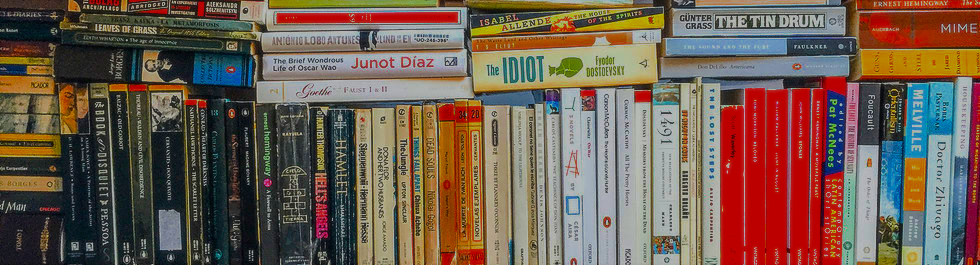
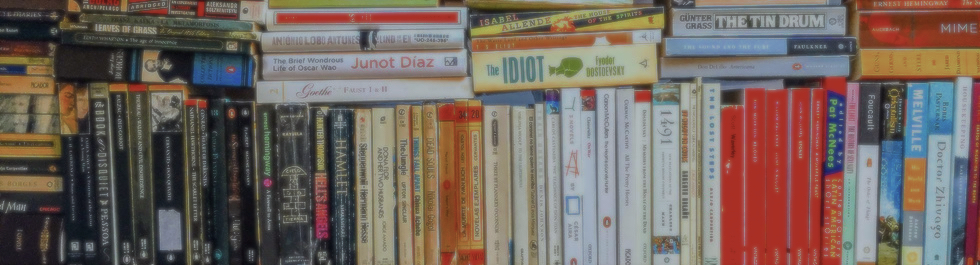
new notebook photo, minor style tweaks

diff --git a/index.html b/index.html
@@ -5,6 +5,14 @@
 		<title>The Casual Academic</title>
 		<meta name="description" content="We are here to laugh at the odds and live our lives so well that Death will tremble to take us.">
 		<meta name="Keywords" content="the casual academic, literature, books, podcast, literary articles, literary reviews, novels, vocabulary"/>
+
+		<!-- You can use Open Graph tags to customize link previews. Learn more: https://developers.facebook.com/docs/sharing/webmasters -->
+		<meta property="og:url"           content="http://www.thecasualacademic.com" />
+		<meta property="og:type"          content="website" />
+		<meta property="og:title"         content="The Casual Academic" />
+		<meta property="og:description"   content="A website about books and shit" />
+		<meta property="og:image"         content="http://www.thecasualacademic.com/bookcover1.png" />
+
 		<meta http-equiv="Content-Type" content="text/html; charset=UTF-8">
 		<link href="https://fonts.googleapis.com/css?family=Josefin+Slab:400,700|Lora" rel="stylesheet">
 		<link rel="stylesheet" type="text/css" href="style.css">
@@ -17,6 +25,7 @@
 	<body ng-app="myApp" >
 		<div id="navbar">
 			<div id="navbar-left">
+				<div class="fb-like" data-href="http://www.thecasualacademic.com" data-layout="standard" data-action="like" data-show-faces="true"></div>
 				<a ng-href="#/">The Casual Academic</a>
 			</div>
 			<div id="navbar-icons">

diff --git a/app.js b/app.js
@@ -54,7 +54,7 @@ app.controller('homeCtrl', ['$scope', '$location', '$timeout', 'EntryService', f
             if (a.created_at_date < b.created_at_date) return -1;
             if (a.created_at_date > b.created_at_date) return 1;
             return 0;
-        }).reverse().slice(0, 5);
+        }).reverse();
         $scope.book = $scope.data[0];
     });
 
@@ -77,7 +77,7 @@ app.controller('episodesCtrl', ['$scope', '$sce', '$http', 'EntryService', funct
         $scope.episodes = entries;
         $http.get('./data/asides.json').then(function (asides) {
             asides = asides.data.map(function (item) {
-                item['cover_image'] = 'bookcover1.png';
+                item['cover_image'] = 'havana_notebook.png';
                 item['created_at_date'] = new Date(item.created_at);
                 item['term'] = 'Aside';
                 item['play_on_page'] = true;
@@ -131,6 +131,12 @@ app.controller('singleEpisodeCtrl', ['$scope', '$sce', '$routeParams', 'EntrySer
         $scope.further_reading = $sce.trustAsHtml(links);
         $scope.$apply();
     })
+
+}]);
+
+app.controller('reviewCtrl', ['$scope', function ($scope) {
+
+    window.scrollTo(0, 0);
 
 }]);
 

diff --git a/style.css b/style.css
@@ -16,7 +16,7 @@ body {
 }
 
 .red-hov:hover {
-	color: #a60000;;
+	color: red;
 }
 
 .center {
@@ -90,7 +90,7 @@ body {
 #banner {
 	width: 100%;
 	z-index: -1;
-	background-image: url('images/banner_copy.jpg');
+	background-image: url('images/banner.jpg');
 	font-family: 'Josefin Slab', serif;
 }
 
@@ -129,8 +129,8 @@ body {
 #bookshelf {
 	text-align: center;
 	vertical-align: bottom;
-	margin-top: 60px;
-	height: 360px;
+	margin-top: 80px;
+	height: 382px;
 	overflow-y: hidden;
 }
 
@@ -157,7 +157,9 @@ body {
 
 .book-option {
 	padding: 10px;
-	font-size: 24px;
+	margin-bottom: 5px;
+	font-size: 32px;
+	font-family: 'Josefin Slab';
 	letter-spacing: 1px;
 	cursor: pointer;
 	display: inline-block;
@@ -458,7 +460,8 @@ body {
 }
 
 .about-name {
-	background: rgba(149, 166, 255, 0.77);
+	background: rgb(53, 53, 53);
+	color: white;
 	padding: 10px;
 	font-size: 30px;
 	text-align: center;

diff --git a/reviews/a_primer_to_borges.html b/reviews/a_primer_to_borges.html
@@ -1,4 +1,4 @@
-<div id="page-review" class="page" scrollpercent>
+<div id="page-review" class="page" scrollpercent ng-controller="reviewCtrl">
   <div style="width: 100%;height: 10px;"></div>
 
   <span id="percentage">0%</span>
